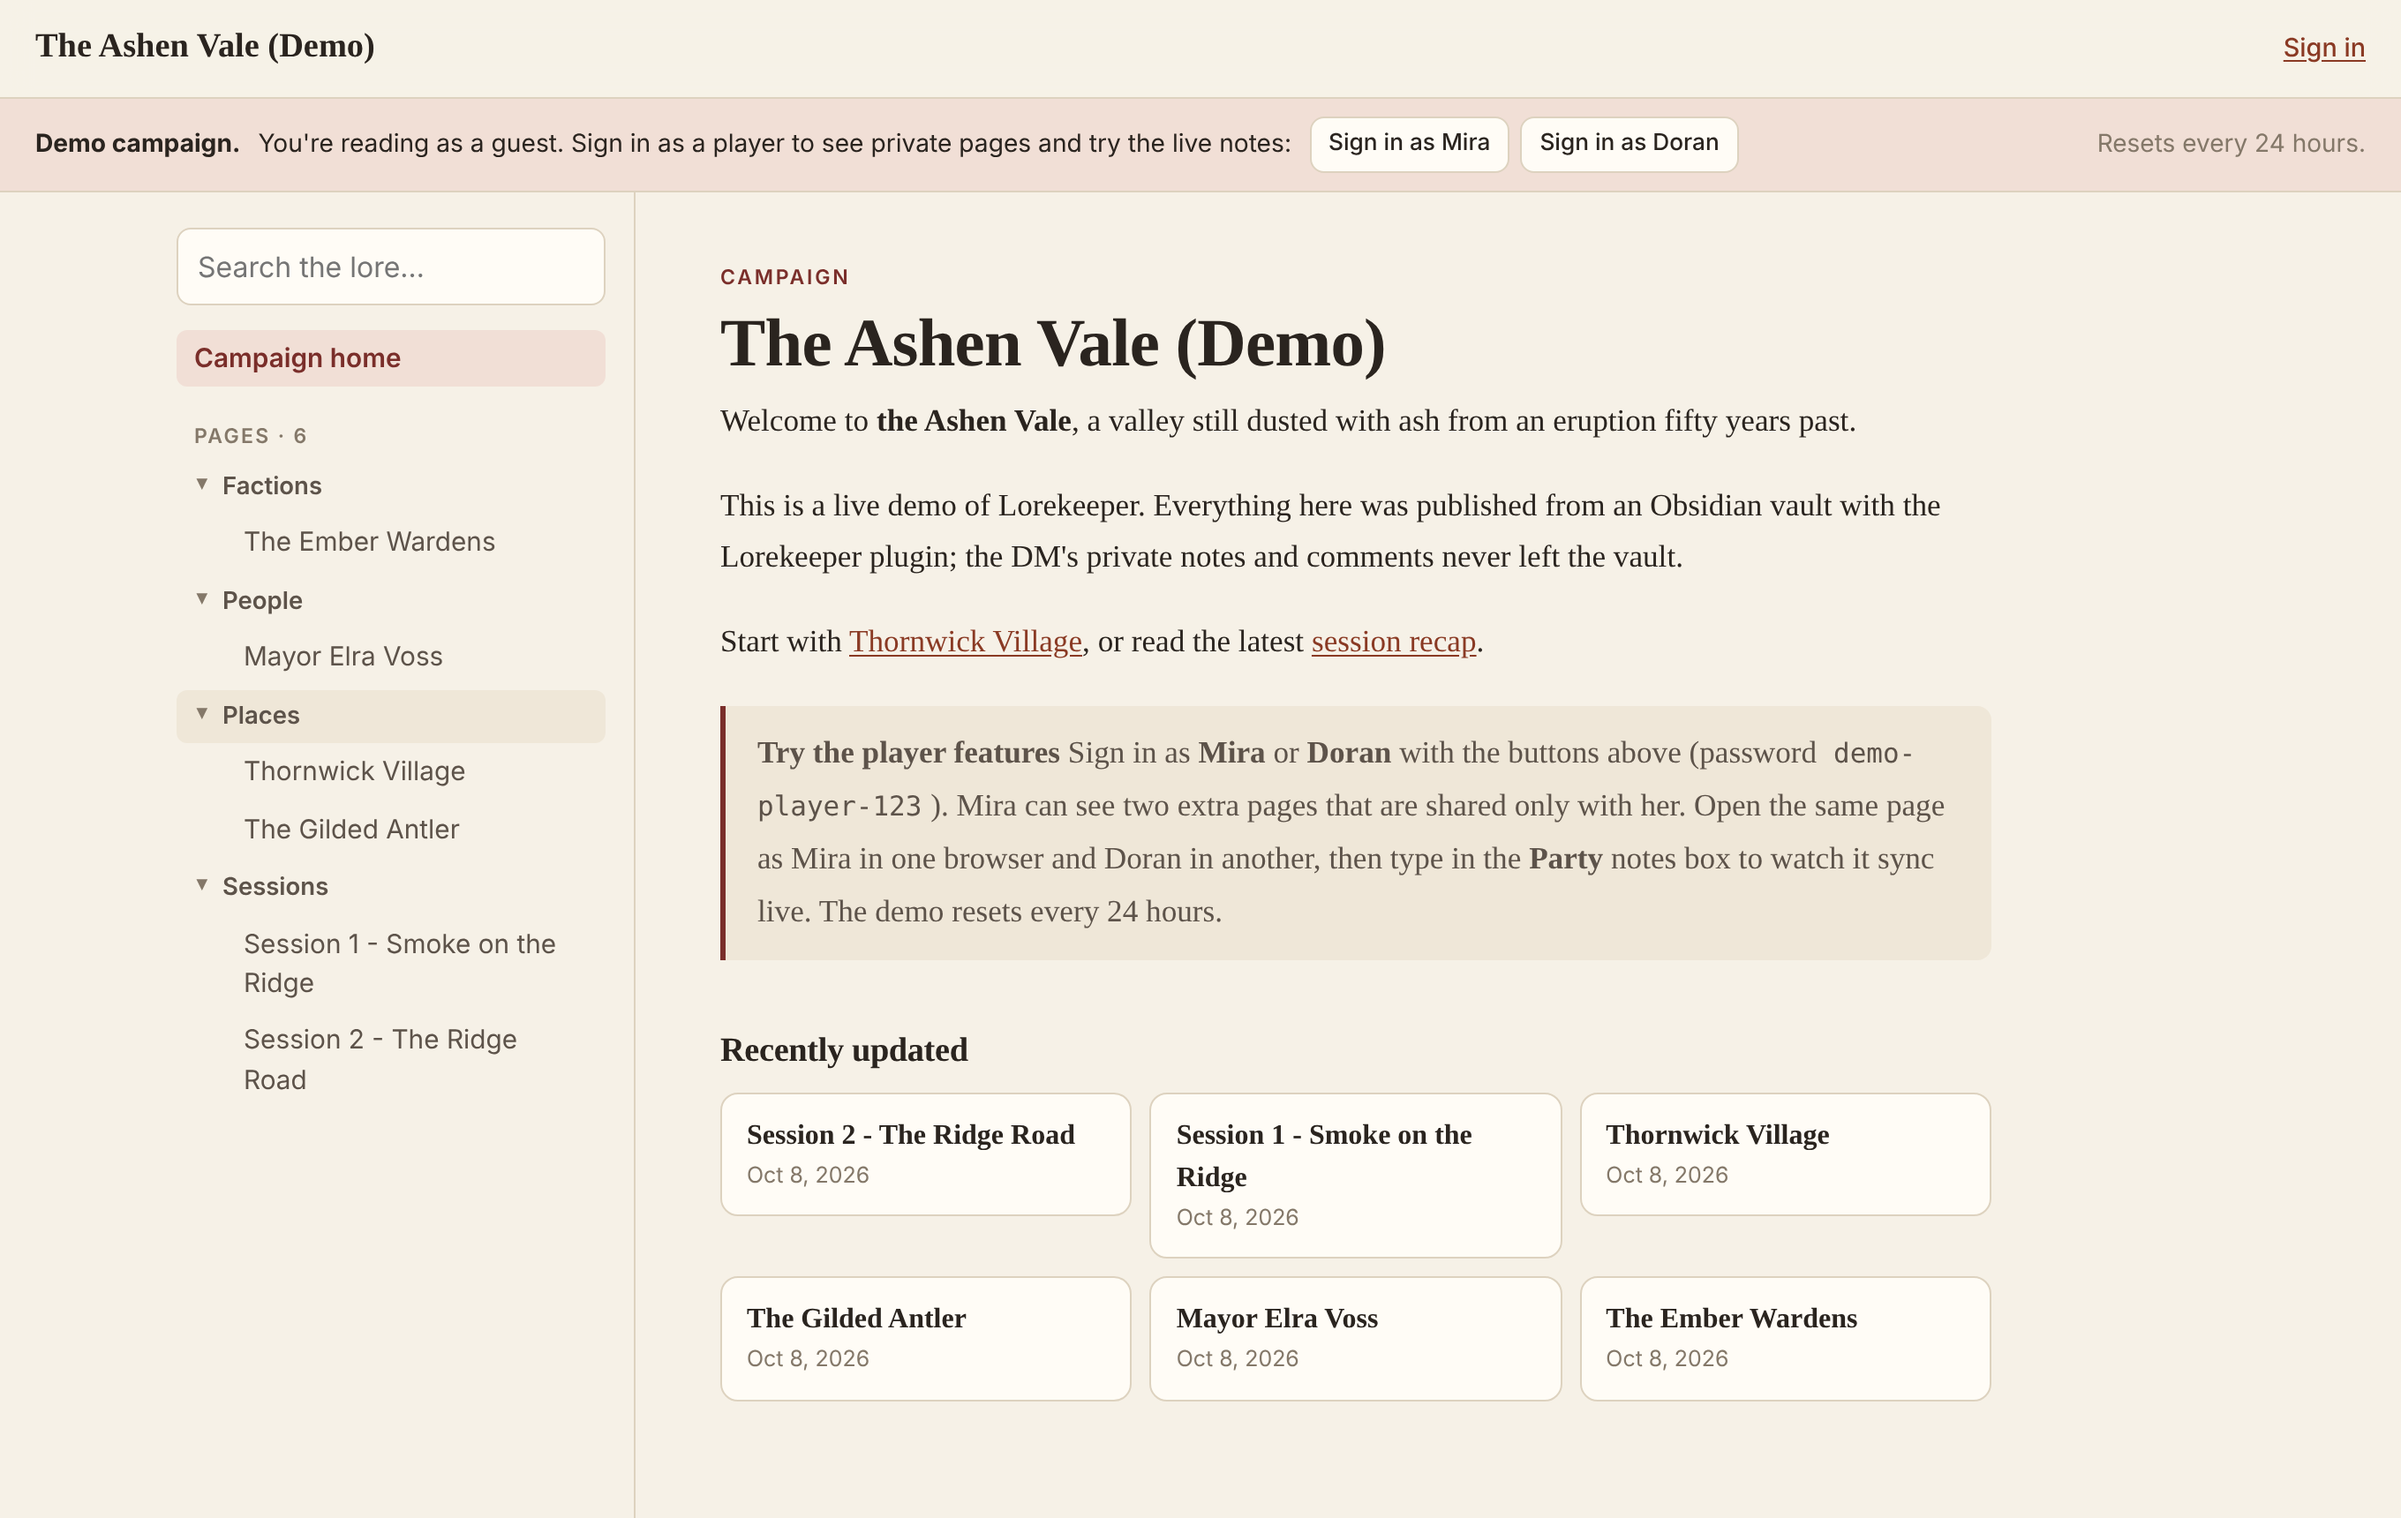
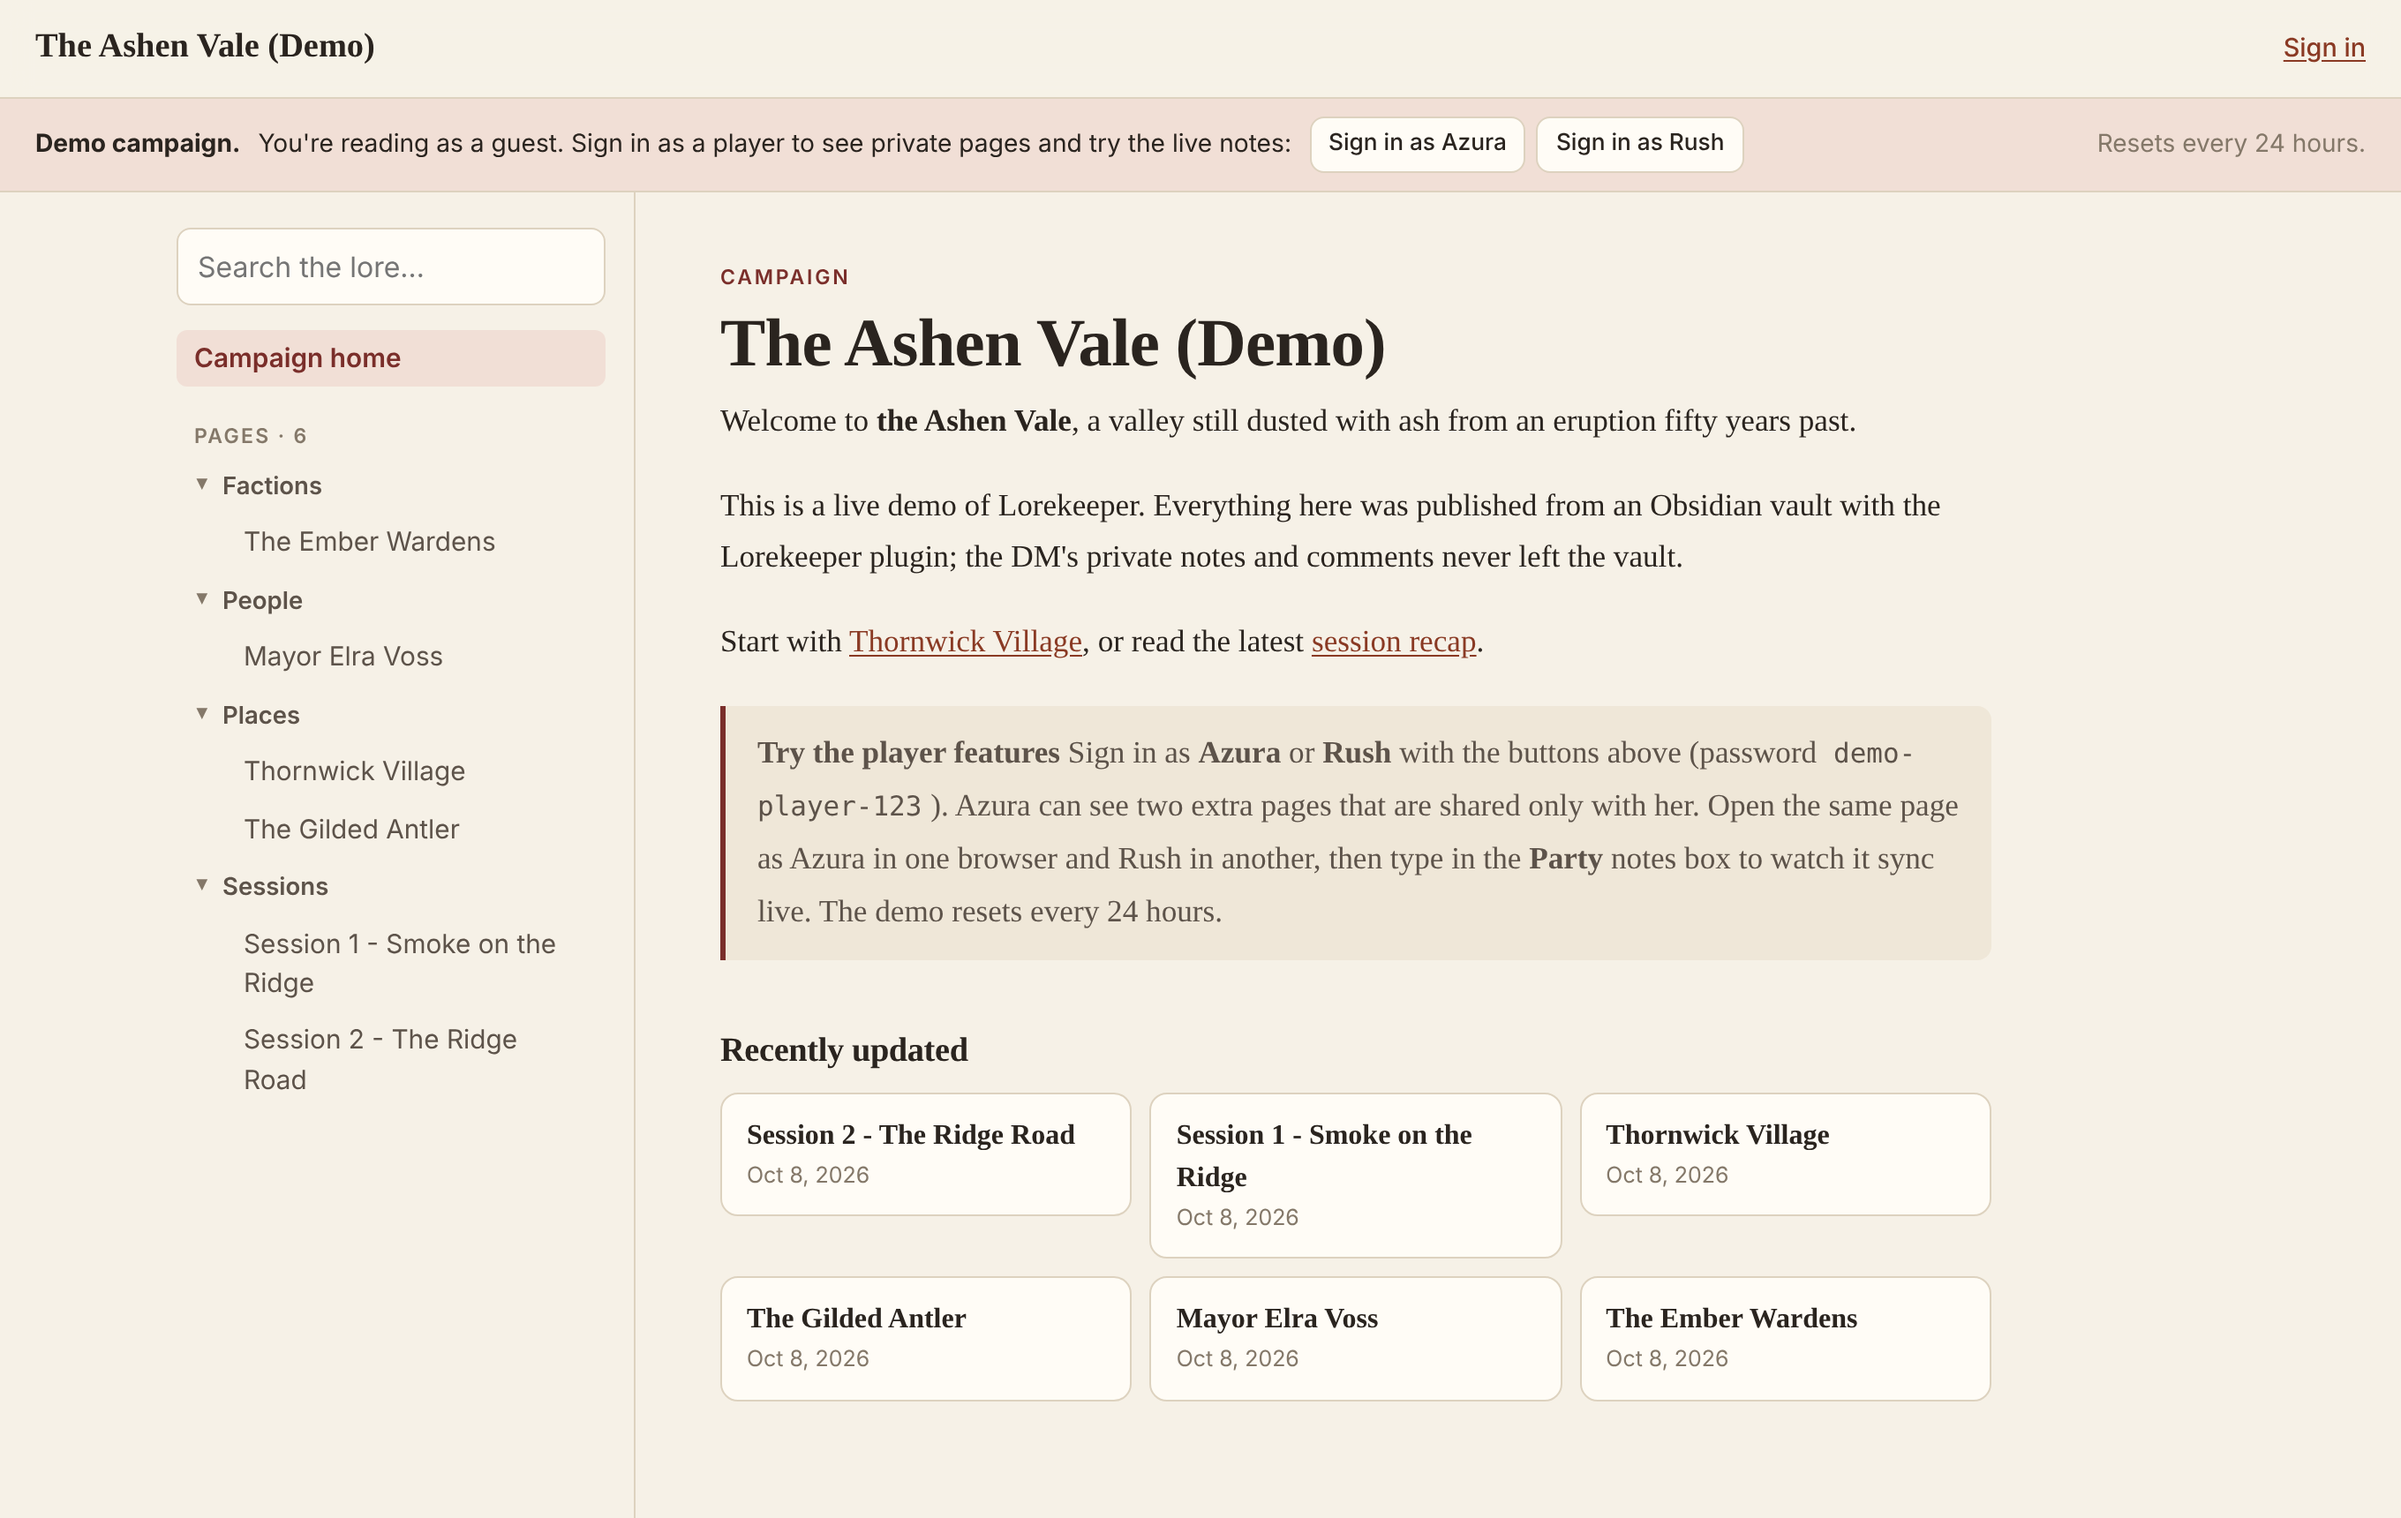
Update demo player names and screenshots

Changed region(s): [[0.3125, 0.493, 0.8125, 0.5855], [0.625, 0.0616, 0.7188, 0.1233]]

diff --git a/README.md b/README.md
@@ -32,7 +32,7 @@ The part I spent the most time on was permissions. Every page a player requests,
 
 ## The demo
 
-The demo campaign is rebuilt from a sample vault every 24 hours. You can read it as a guest, or use the buttons at the top to sign in as one of two demo players. Mira can see two pages Doran can't. If you open the same page as Mira in one browser and Doran in another, you can watch the Party notes box sync as you type.
+The demo campaign is rebuilt from a sample vault every 24 hours. You can read it as a guest, or use the buttons at the top to sign in as one of two demo players. Azura can see two pages Rush can't. If you open the same page as Azura in one browser and Rush in another, you can watch the Party notes box sync as you type.
 
 ![The demo campaign](images/00-demo.png)
 
